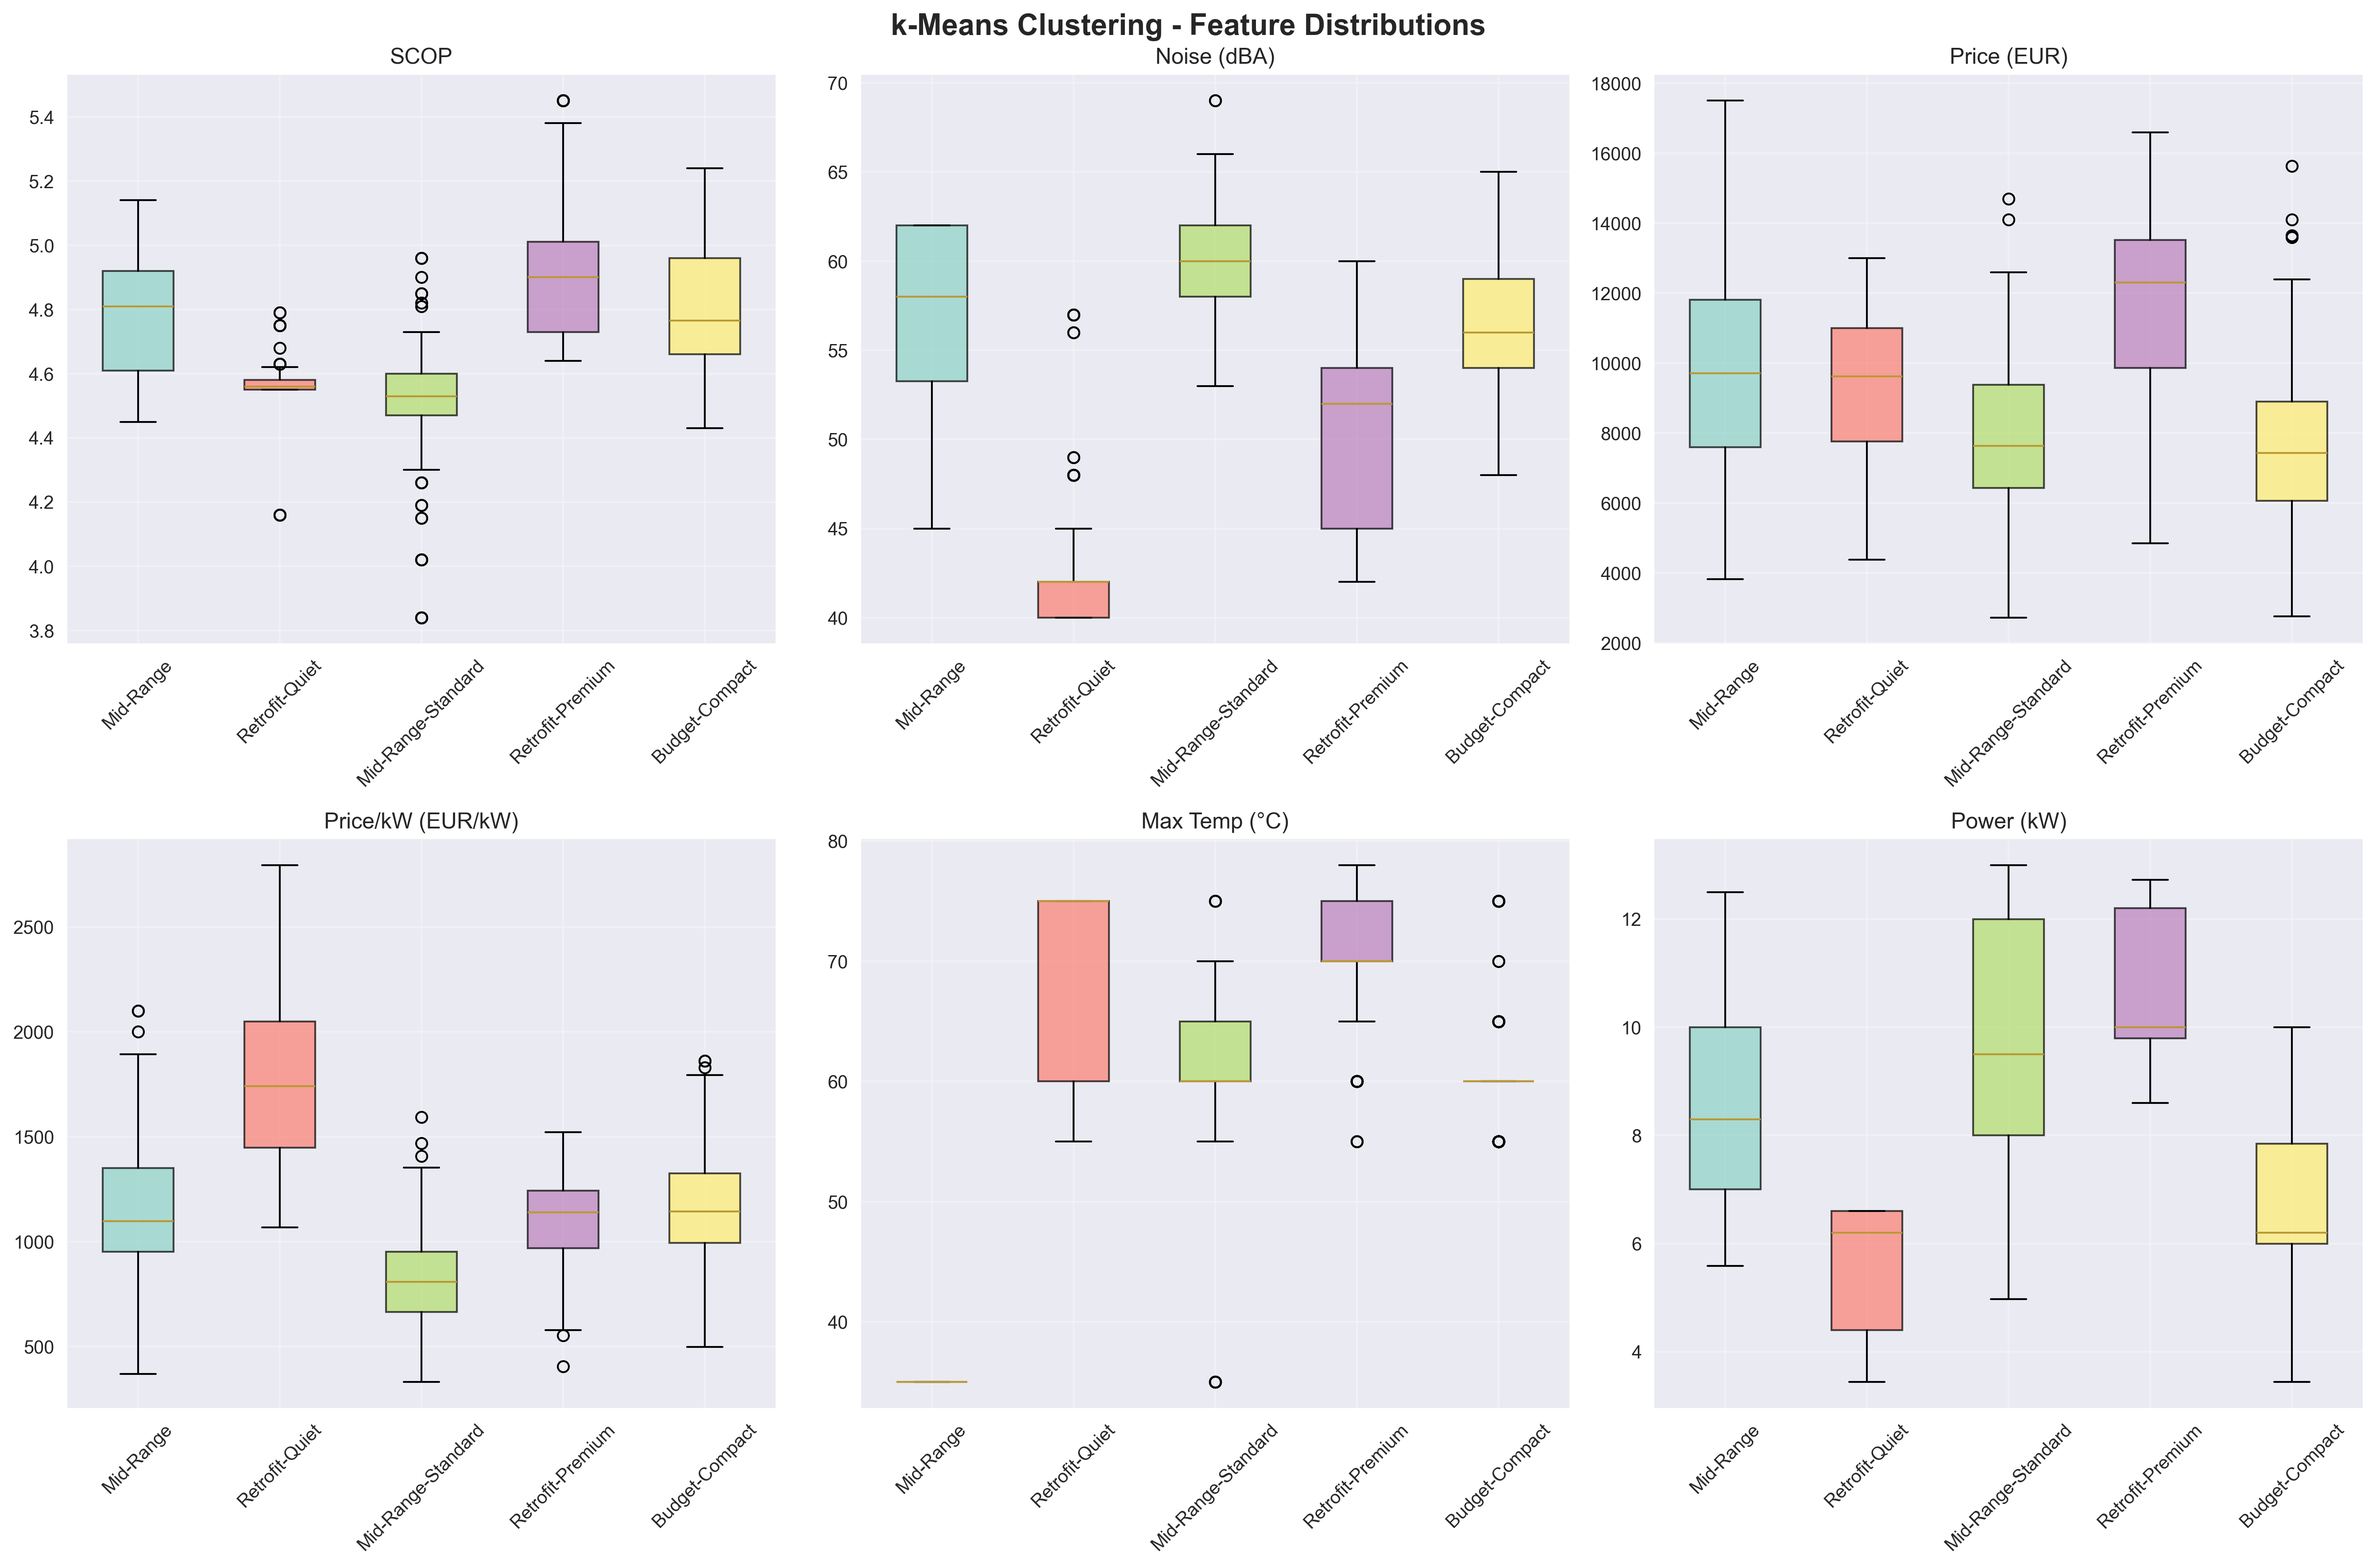
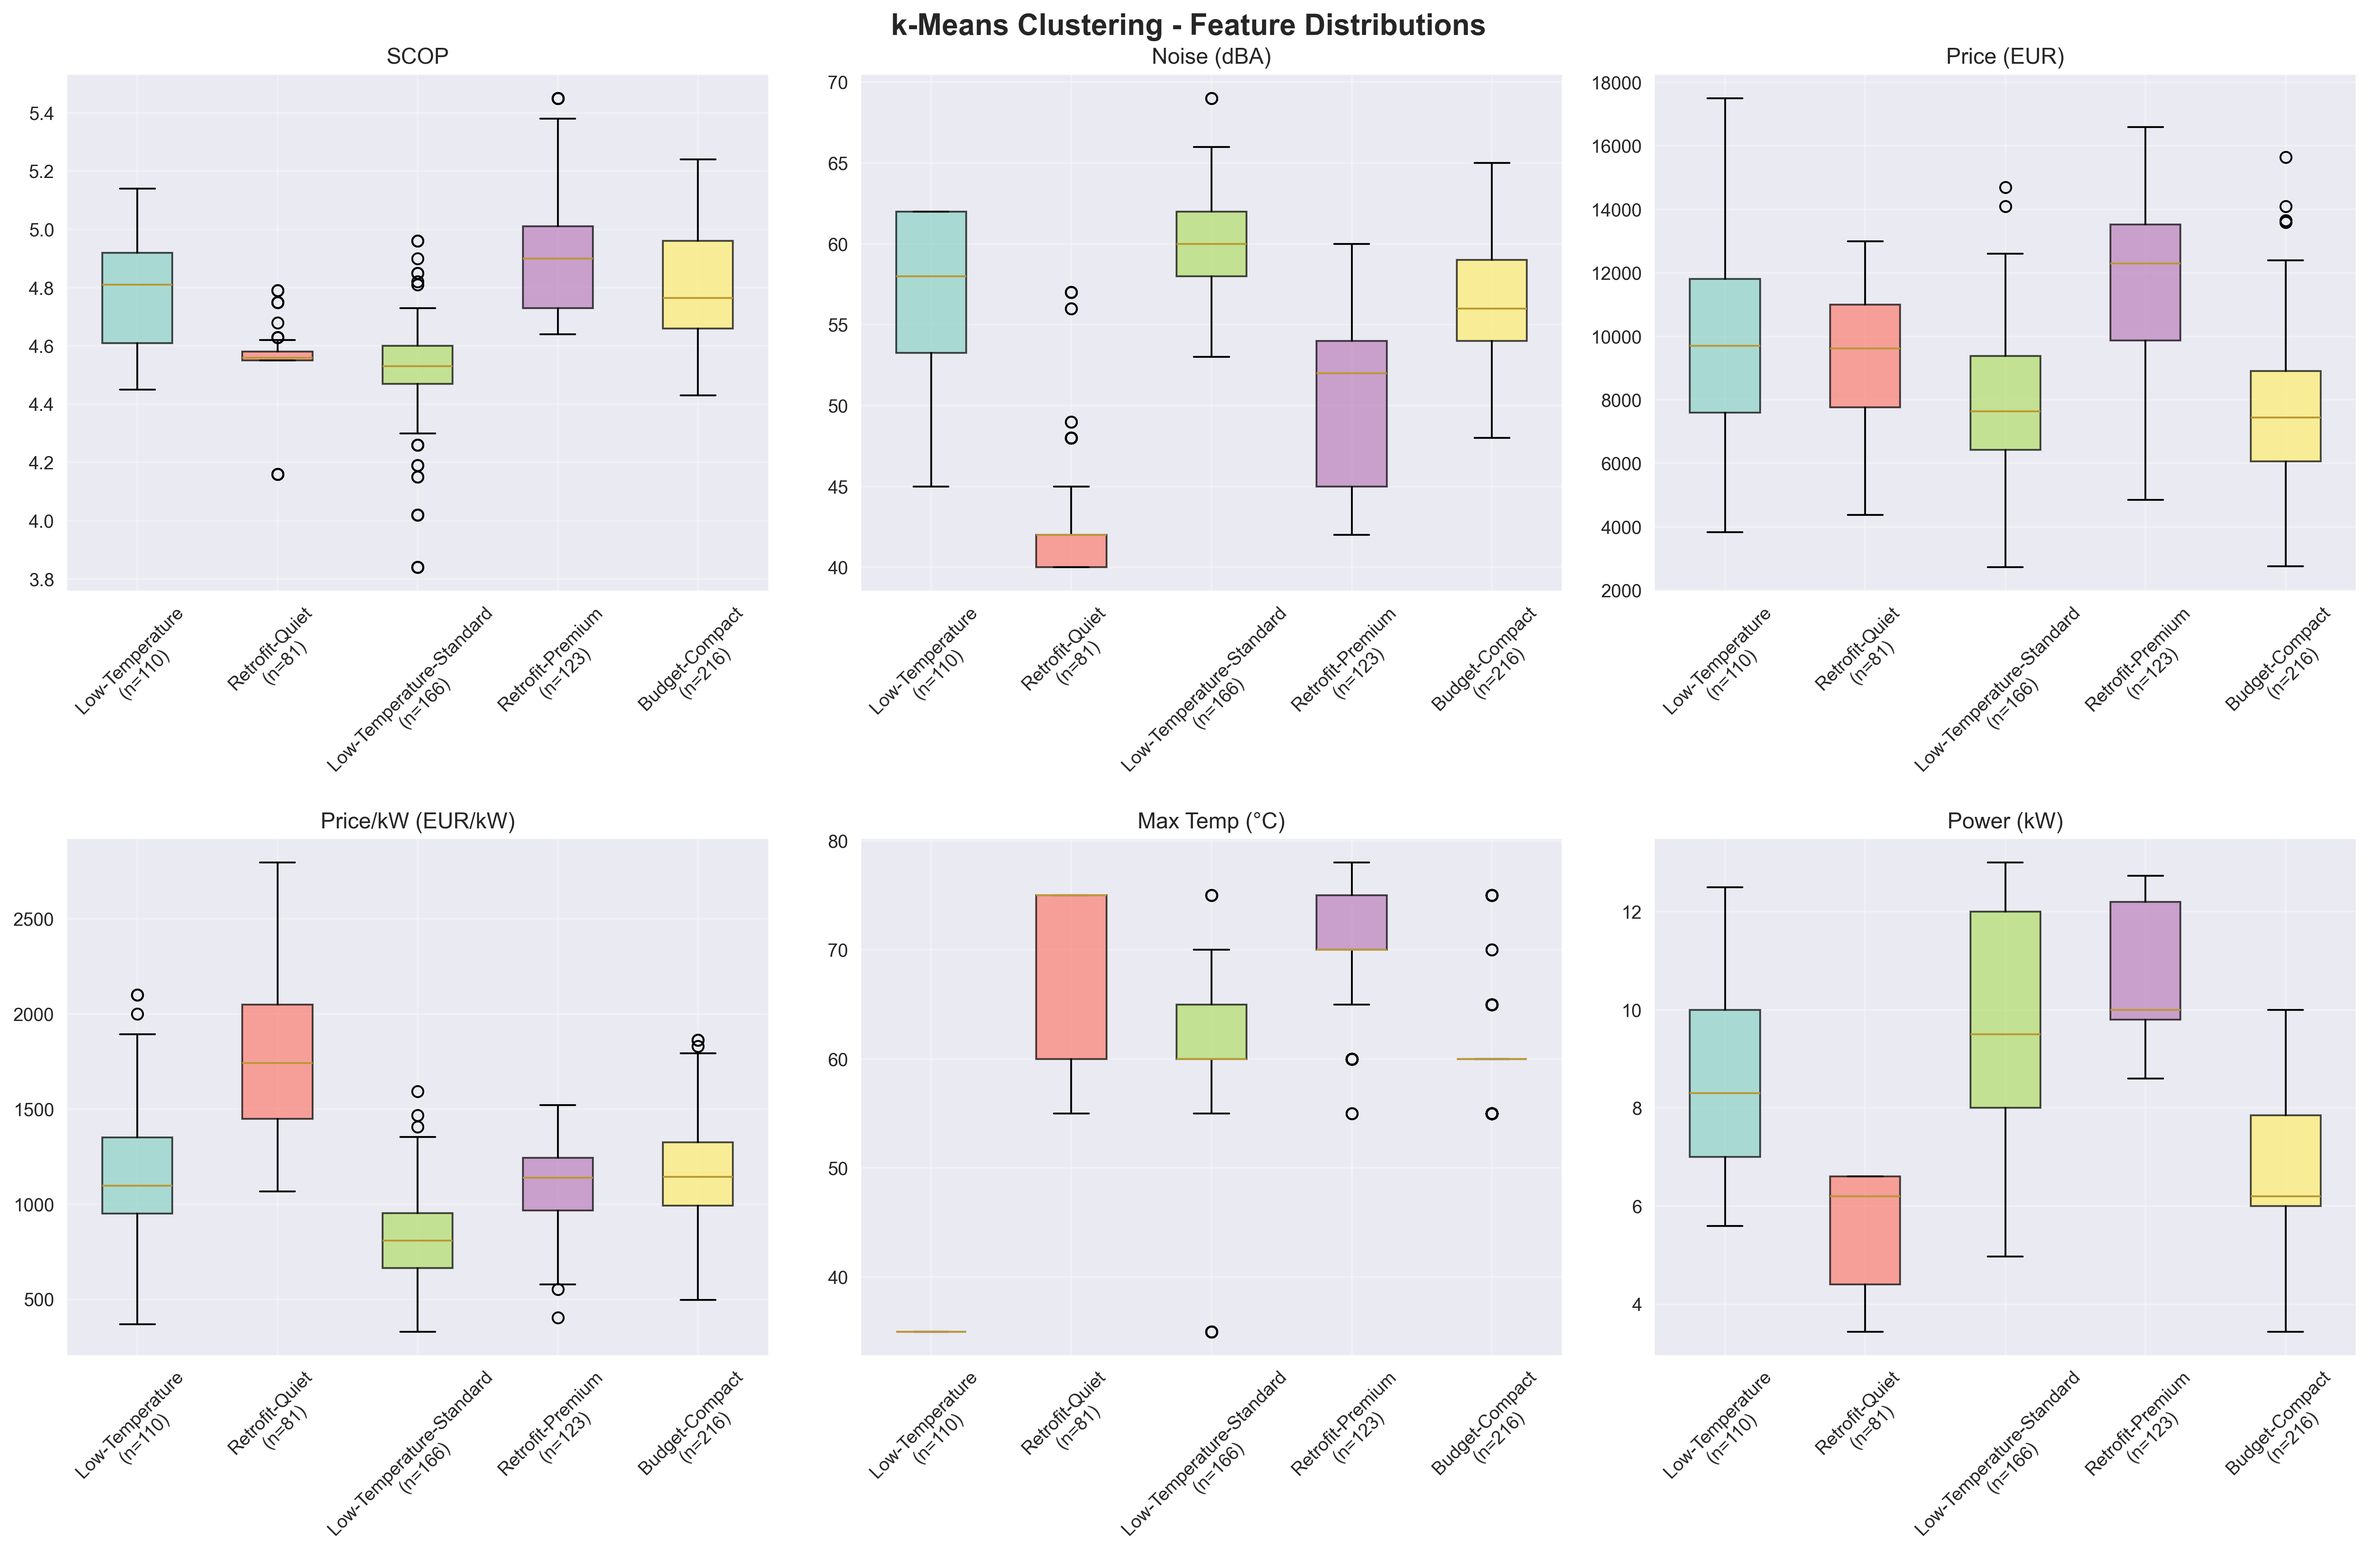
Update cluster analysis: rename Mid-Range to Low-Temperature and add observation counts to plots
- Changed Mid-Range cluster name to Low-Temperature for better accuracy
- Added observation counts (n=...) to boxplot and violin plot labels
- Updated buyer persona dictionary with new Low-Temperature descriptions
- Regenerated all visualizations with updated cluster names
- Updated marketing analysis report with new naming

diff --git a/Pricescraper/6_analysis/cluster_market_personalities.py b/Pricescraper/6_analysis/cluster_market_personalities.py
@@ -318,7 +318,7 @@ def determine_cluster_archetype(profile, df_all):
     HIGH_THRESHOLD = 0.67
     
     # Categorize characteristics
-    price_cat = "Budget" if price_pct < LOW_THRESHOLD else ("Premium" if price_pct > HIGH_THRESHOLD else "Mid-Range")
+    price_cat = "Budget" if price_pct < LOW_THRESHOLD else ("Premium" if price_pct > HIGH_THRESHOLD else "Low-Temperature")
     efficiency_cat = "High-Efficiency" if scop_pct > HIGH_THRESHOLD else ("Standard" if scop_pct > LOW_THRESHOLD else "Basic")
     # Fix noise categorization: low noise_pct = quiet (below average noise), high noise_pct = noisy (above average noise)
     noise_cat = "Quiet" if noise_pct < LOW_THRESHOLD else ("Standard" if noise_pct < HIGH_THRESHOLD else "Noisy")
@@ -337,8 +337,8 @@ def determine_cluster_archetype(profile, df_all):
         primary_traits.append("Budget")
     elif price_cat == "Premium":
         primary_traits.append("Premium")
-    elif price_cat == "Mid-Range" and len(primary_traits) == 0:
-        primary_traits.append("Mid-Range")
+    elif price_cat == "Low-Temperature" and len(primary_traits) == 0:
+        primary_traits.append("Low-Temperature")
     
     # PRIORITY 3: Performance characteristics
     if efficiency_cat == "High-Efficiency":
@@ -389,10 +389,10 @@ def determine_cluster_archetype(profile, df_all):
             archetype = "Compact-Efficient"
         elif "Value" in primary_traits and "Efficient" in primary_traits:
             archetype = "Value-Efficient"
-        elif "Mid-Range" in primary_traits and "Efficient" in primary_traits:
+        elif "Low-Temperature" in primary_traits and "Efficient" in primary_traits:
             archetype = "Standard-Efficient"
-        elif "Mid-Range" in primary_traits:
-            archetype = "Mid-Range-Standard"
+        elif "Low-Temperature" in primary_traits:
+            archetype = "Low-Temperature-Standard"
         else:
             # Default to combining top 2 traits
             archetype = "-".join(primary_traits[:2])
@@ -457,9 +457,13 @@ def generate_buyer_persona(profile, cluster_name):
             "description": "Mainstream market seeking reliable performance with good efficiency at fair prices",
             "tags": ["mainstream residential", "balanced buyers", "standard homes", "practical choice", "middle market"]
         },
-        "Mid-Range-Standard": {
+        "Low-Temperature-Standard": {
             "description": "Average market segment seeking reliable, balanced performance across all metrics",
             "tags": ["mainstream market", "standard residential", "balanced requirements", "typical homeowners"]
+        },
+        "Low-Temperature": {
+            "description": "Heat pumps designed for low-temperature heating systems with standard performance characteristics",
+            "tags": ["low-temperature systems", "standard heating", "basic requirements", "general residential"]
         },
         "Standard": {
             "description": "Mainstream residential market seeking reliable, balanced performance",
@@ -538,7 +542,9 @@ def create_cluster_visualizations(df_clustered, X_scaled, feature_names, cluster
         for i in range(n_clusters):
             mask = df_clustered['Cluster'] == i
             cluster_data.append(feature_data[mask])
-            cluster_labels.append(cluster_names.get(i, f"C{i}"))
+            cluster_name = cluster_names.get(i, f"C{i}")
+            n_obs = mask.sum()
+            cluster_labels.append(f"{cluster_name}\n(n={n_obs})")
         
         bp = ax.boxplot(cluster_data, labels=cluster_labels, patch_artist=True)
         
@@ -562,16 +568,27 @@ def create_cluster_visualizations(df_clustered, X_scaled, feature_names, cluster
     # Prepare data for violin plots
     feature_data_df = pd.DataFrame()
     for feature_name, feature_data in original_features.items():
+        # Create cluster labels with observation counts
+        cluster_labels_with_counts = []
+        for i in range(n_clusters):
+            cluster_name = cluster_names.get(i, f"C{i}")
+            n_obs = (df_clustered['Cluster'] == i).sum()
+            cluster_labels_with_counts.append(f"{cluster_name}\n(n={n_obs})")
+        
         temp_df = pd.DataFrame({
             'Value': feature_data,
-            'Cluster': df_clustered['Cluster'].map(lambda x: cluster_names.get(x, f"C{x}")),
+            'Cluster': df_clustered['Cluster'].map(lambda x: cluster_labels_with_counts[x]),
             'Feature': feature_name
         })
         feature_data_df = pd.concat([feature_data_df, temp_df], ignore_index=True)
     
     # Create color palette from the same colors used in box plots
-    cluster_order = [cluster_names.get(i, f"C{i}") for i in range(n_clusters)]
+    cluster_order = []
     color_palette = [colors[i] for i in range(n_clusters)]
+    for i in range(n_clusters):
+        cluster_name = cluster_names.get(i, f"C{i}")
+        n_obs = (df_clustered['Cluster'] == i).sum()
+        cluster_order.append(f"{cluster_name}\n(n={n_obs})")
     
     axes_flat = axes.flatten()
     for idx, (feature_name, _) in enumerate(original_features.items()):
